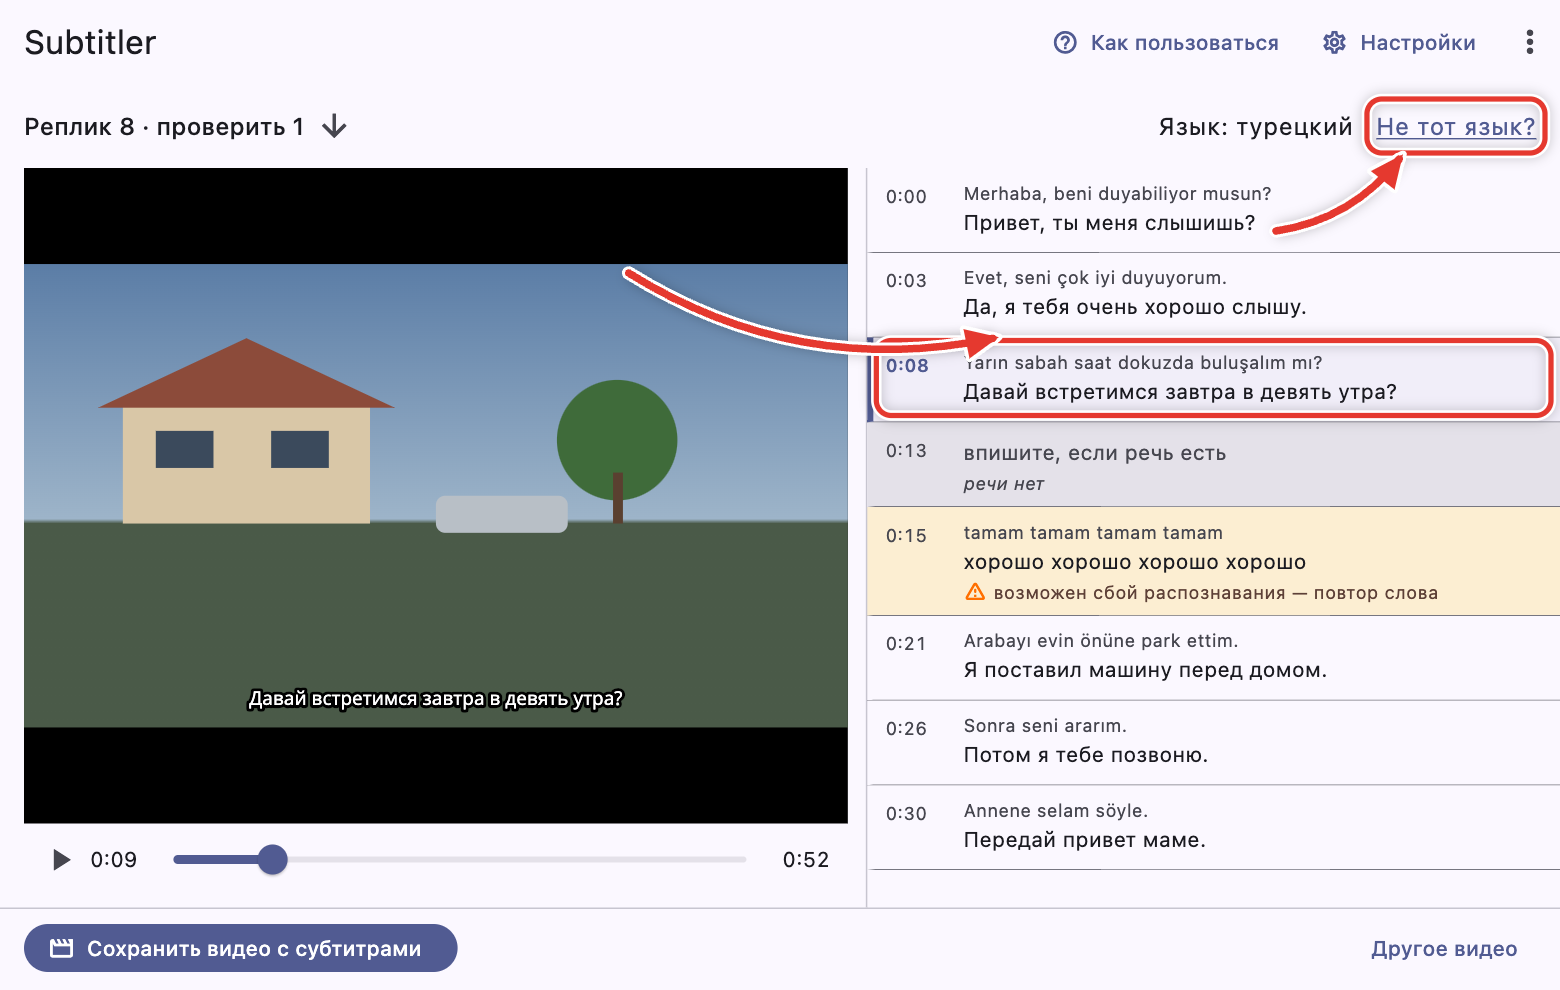
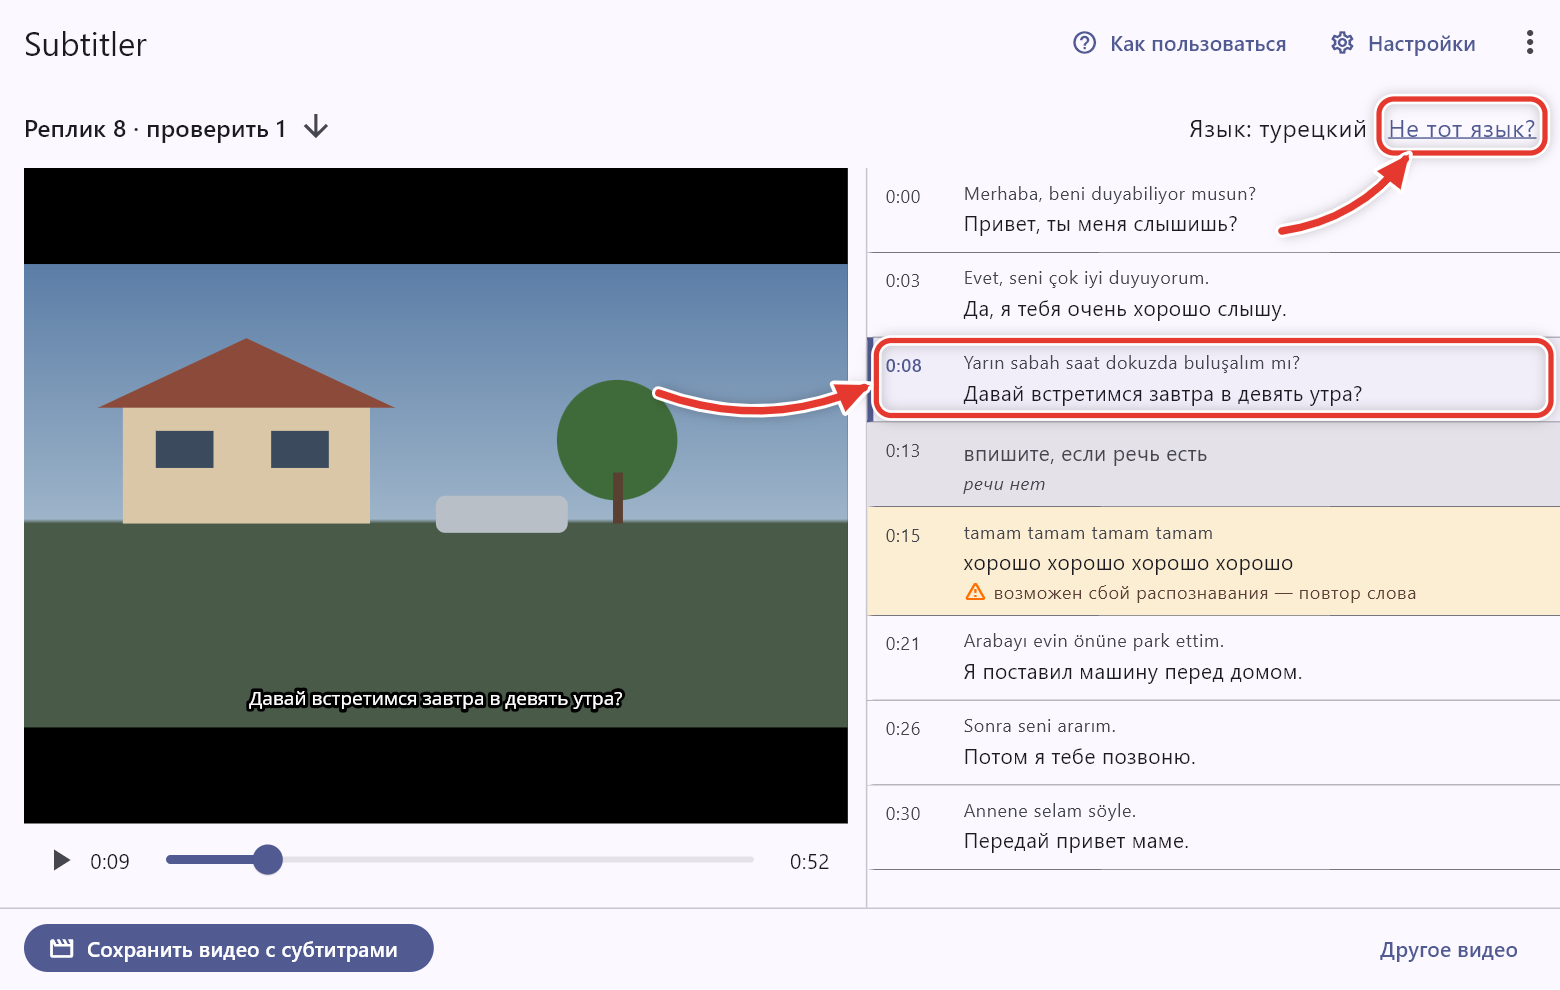
Снимки программы в руководстве сняты на Windows, страница релиза говорит о руководстве
Снимки — артефакт help-screenshots ручной сборки: шрифты Windows и путь
C:\Users\…, как увидит следователь. На странице релиза сказано, что при
первом запуске откроется руководство с инструкцией по ключу.

diff --git a/README.md b/README.md
@@ -191,10 +191,13 @@ AppLocker или WDAC, папку программы нужно разрешит
 Готово ядро и интерфейс следователя: ввод и проверка ключа, перетаскивание
 видео в окно и на значок программы, обработка с автоопределением языка,
 предпросмотр с плеером и правкой перевода, смена языка через «Не тот
-язык?», сохранение видео с проверкой, что субтитры видны. Android — тот же
-поток через «Выбрать видео» и «Поделиться». Тестов в `flutter test` — 785
-(прогон 2026-09-25 на Windows: один, про chmod, там пропускается), плюс
-живой тест плеера в `integration_test`.
+язык?», сохранение видео с проверкой, что субтитры видны, после которого
+.srt и файл сессии удаляются. Руководство «Как пользоваться» — по шагам,
+отдельным окном, при первом запуске открывается само. Android — тот же
+поток через «Выбрать видео» и «Поделиться». Тестов в `flutter test` — 818
+(прогон 2026-09-28 на Windows в CI: один, про chmod, там пропускается),
+плюс в `integration_test` живой тест плеера и снимки экранов для
+руководства.
 
 Впереди: приём видео из WhatsApp через «Поделиться» (share-интент не
 подключён), подпись APK своим ключом, калибровка определения языка на
